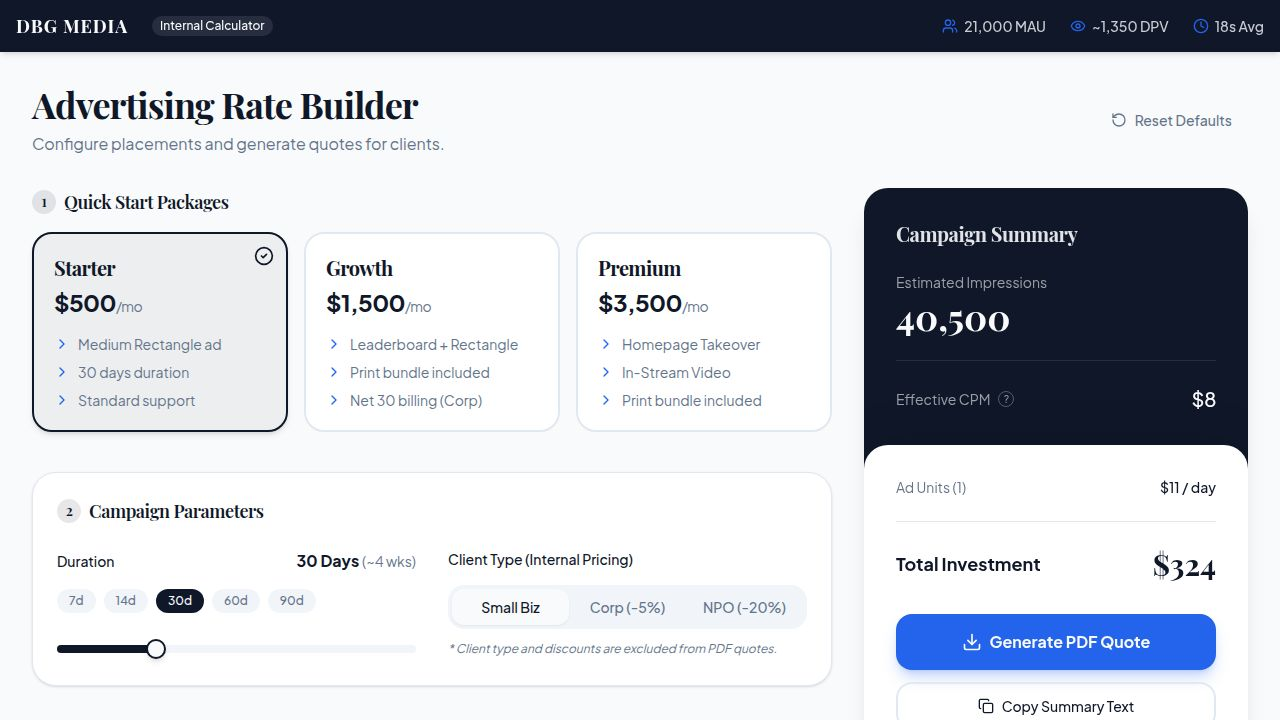
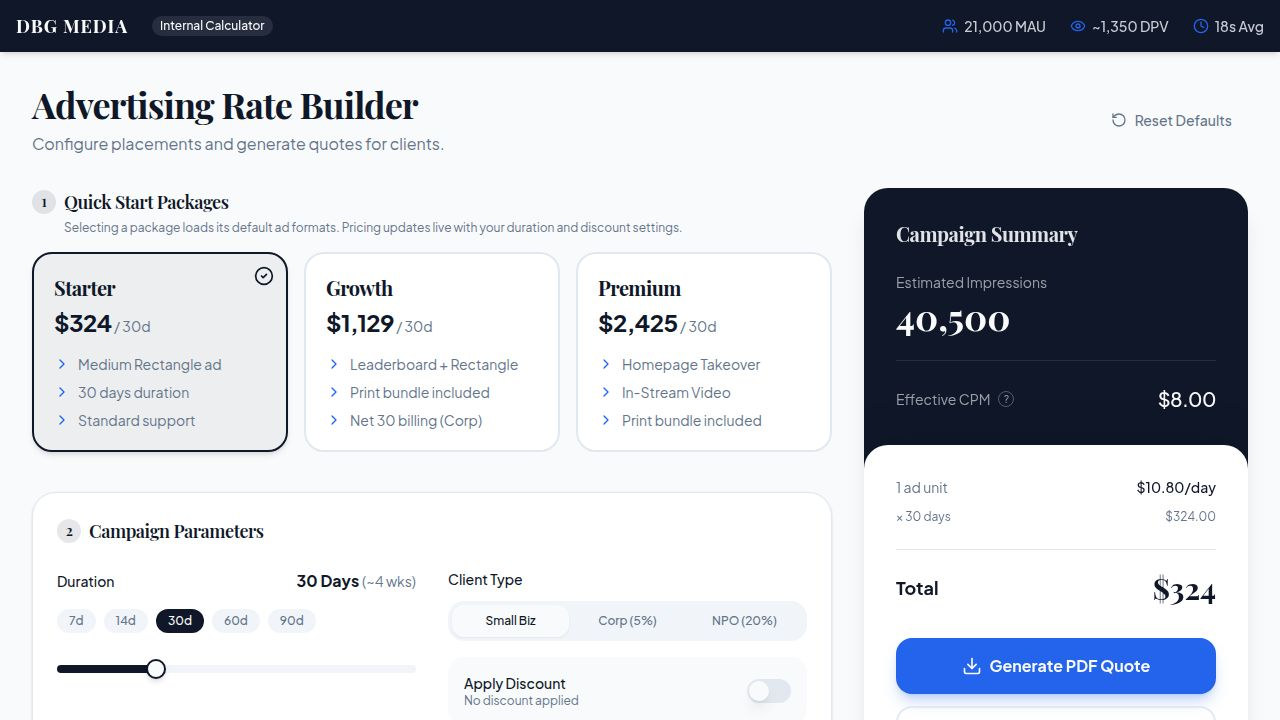
Update ad rates to automatically adjust based on client type selection
Modify the client type selection handler to automatically enable discounts for client types with predefined rates, ensuring ad inventory pricing updates dynamically without requiring manual toggle activation.

Replit-Commit-Author: Agent
Replit-Commit-Session-Id: 63996ae4-781e-4598-a56e-55472fac81ed
Replit-Commit-Checkpoint-Type: full_checkpoint
Replit-Commit-Event-Id: 016b8961-97cf-41b3-b706-903db965a727
Replit-Commit-Screenshot-Url: https://storage.googleapis.com/screenshot-production-us-central1/6bf58594-a7a6-4a7e-8478-918144962db5/63996ae4-781e-4598-a56e-55472fac81ed/3kNUbCa
Replit-Helium-Checkpoint-Created: true

diff --git a/artifacts/ad-calculator/src/pages/Calculator.tsx b/artifacts/ad-calculator/src/pages/Calculator.tsx
@@ -98,10 +98,11 @@ export default function CalculatorPage() {
   // Duration changes don't affect tier selection
   const handleDaysChange = (v: number) => setDays(v);
 
-  // Client type change: update preset discount reference, clear custom input, don't deselect tier
+  // Client type change: update preset, clear custom input, auto-enable discount for non-zero presets
   const handleClientTypeChange = (v: ClientType) => {
     setClientType(v);
     setCustomDiscountInput('');
+    setDiscountEnabled(DISCOUNTS[v] > 0);
   };
 
   const handleCopy = () => {
